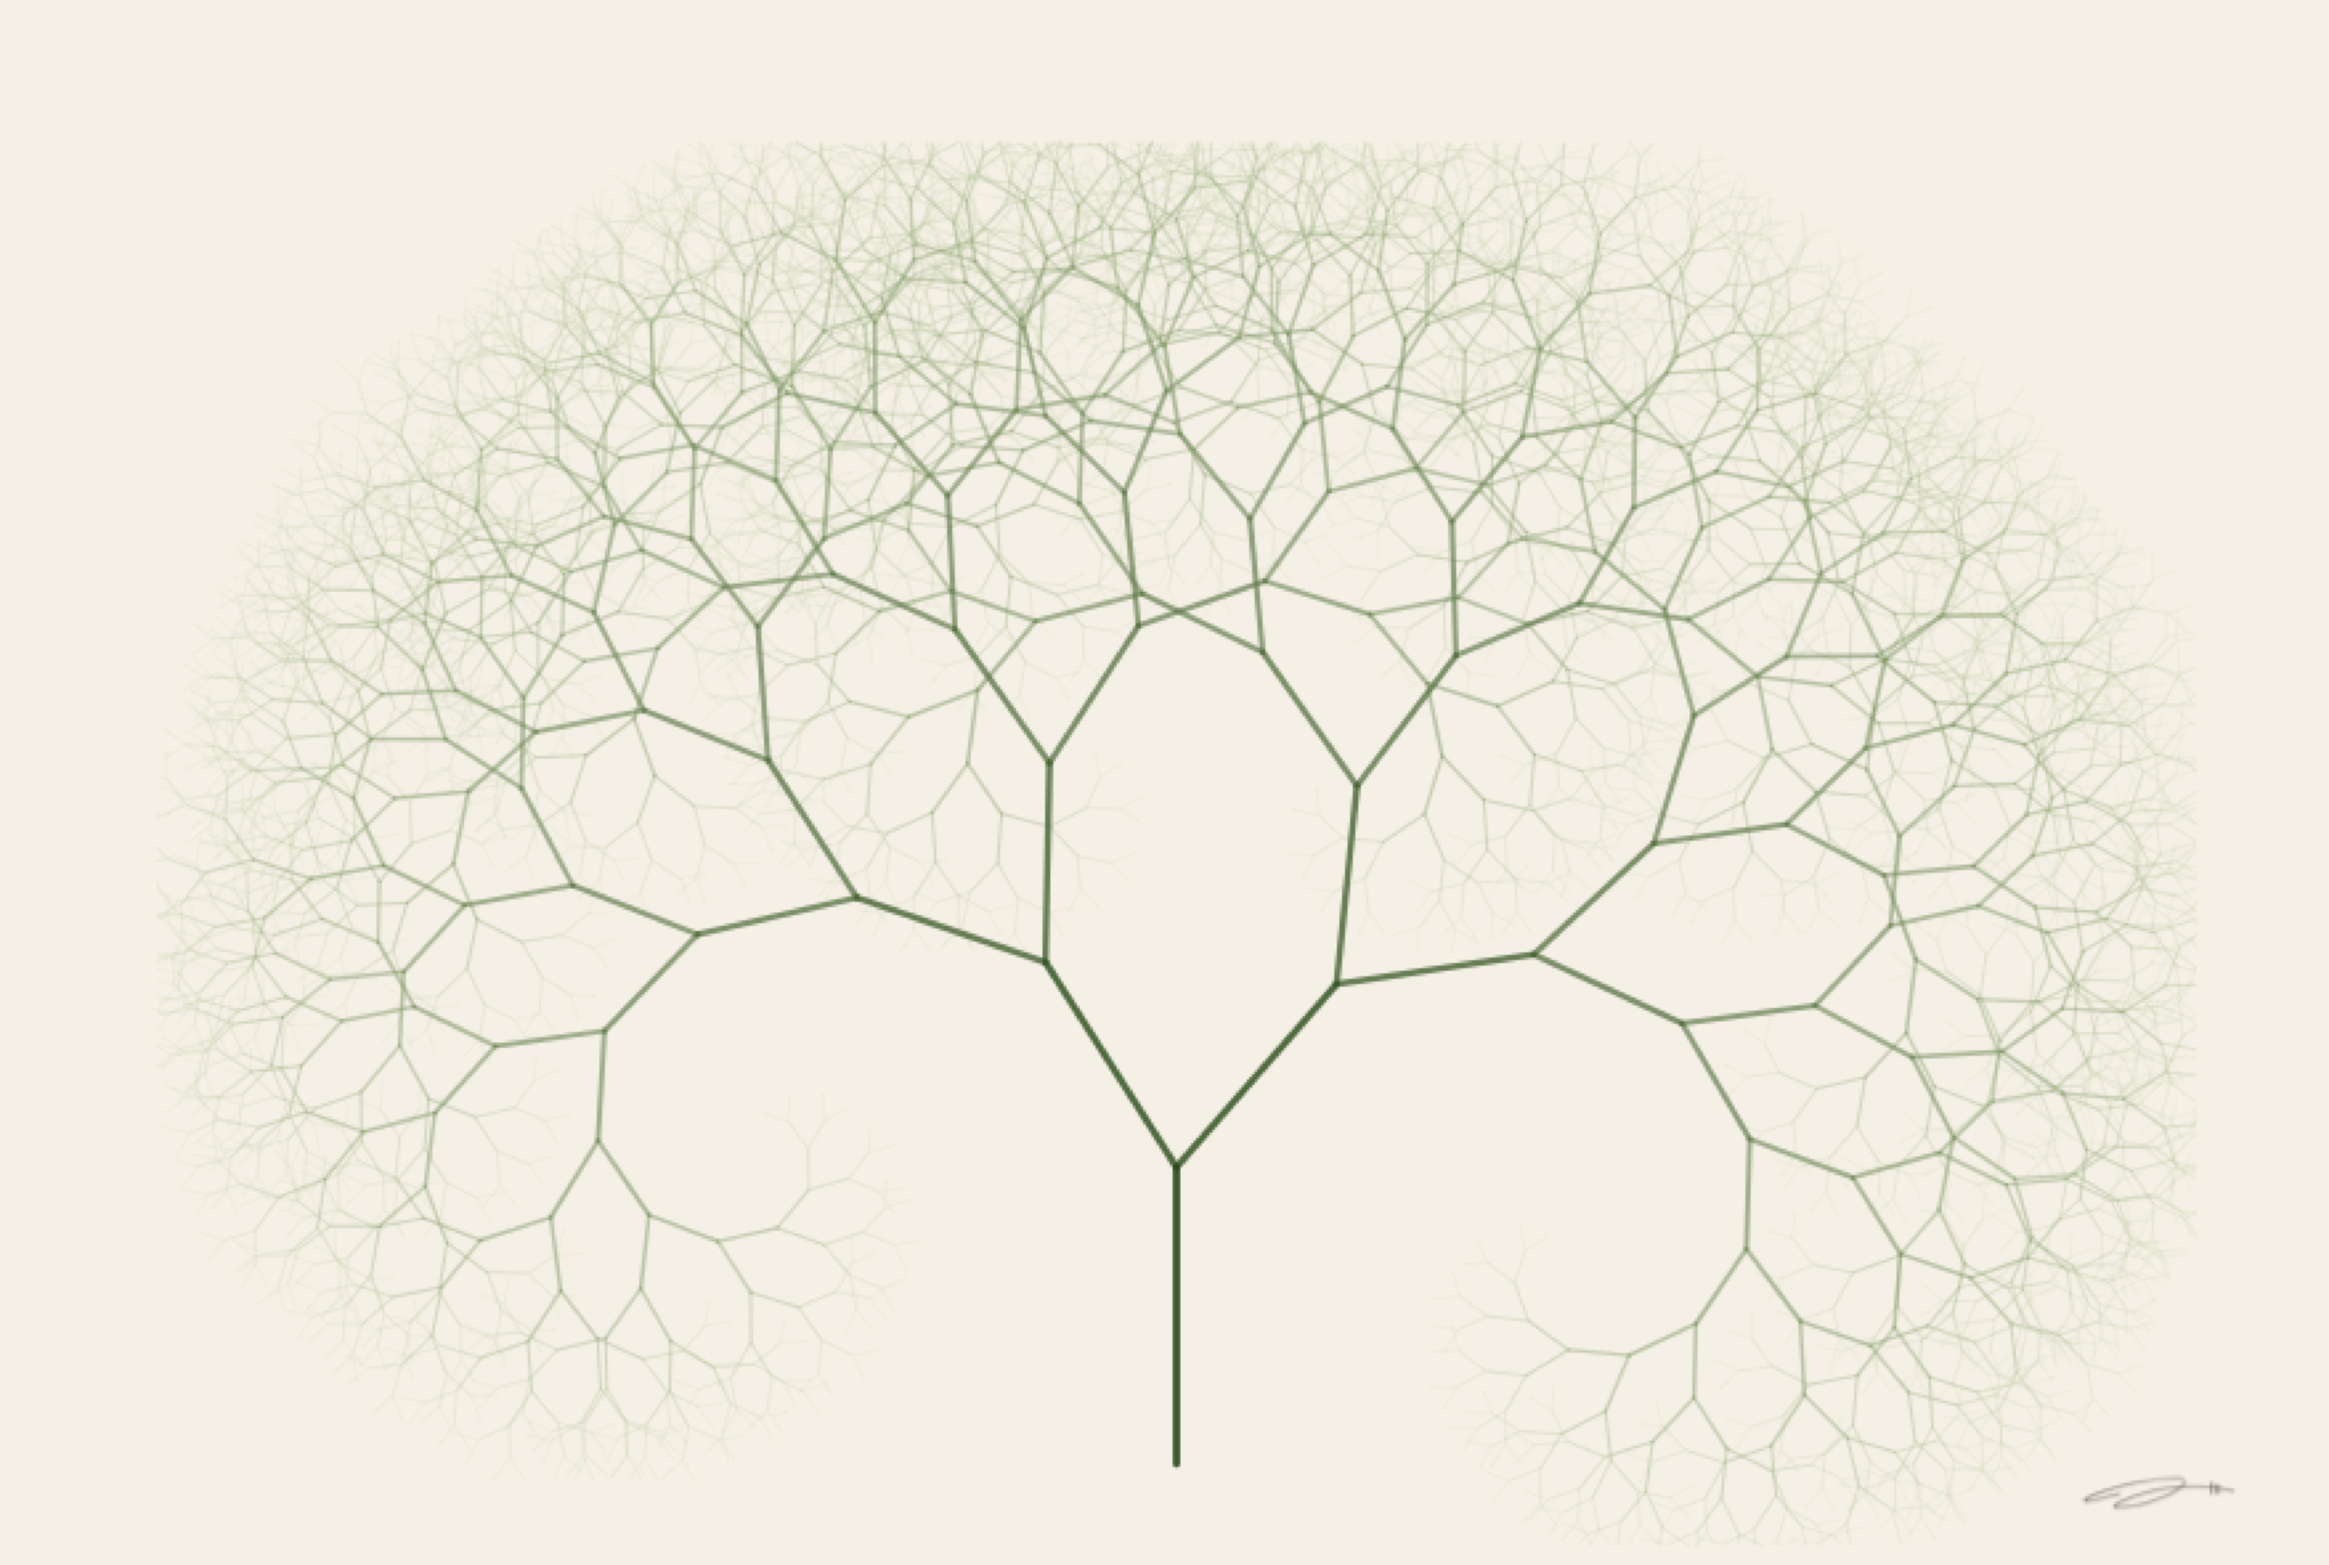
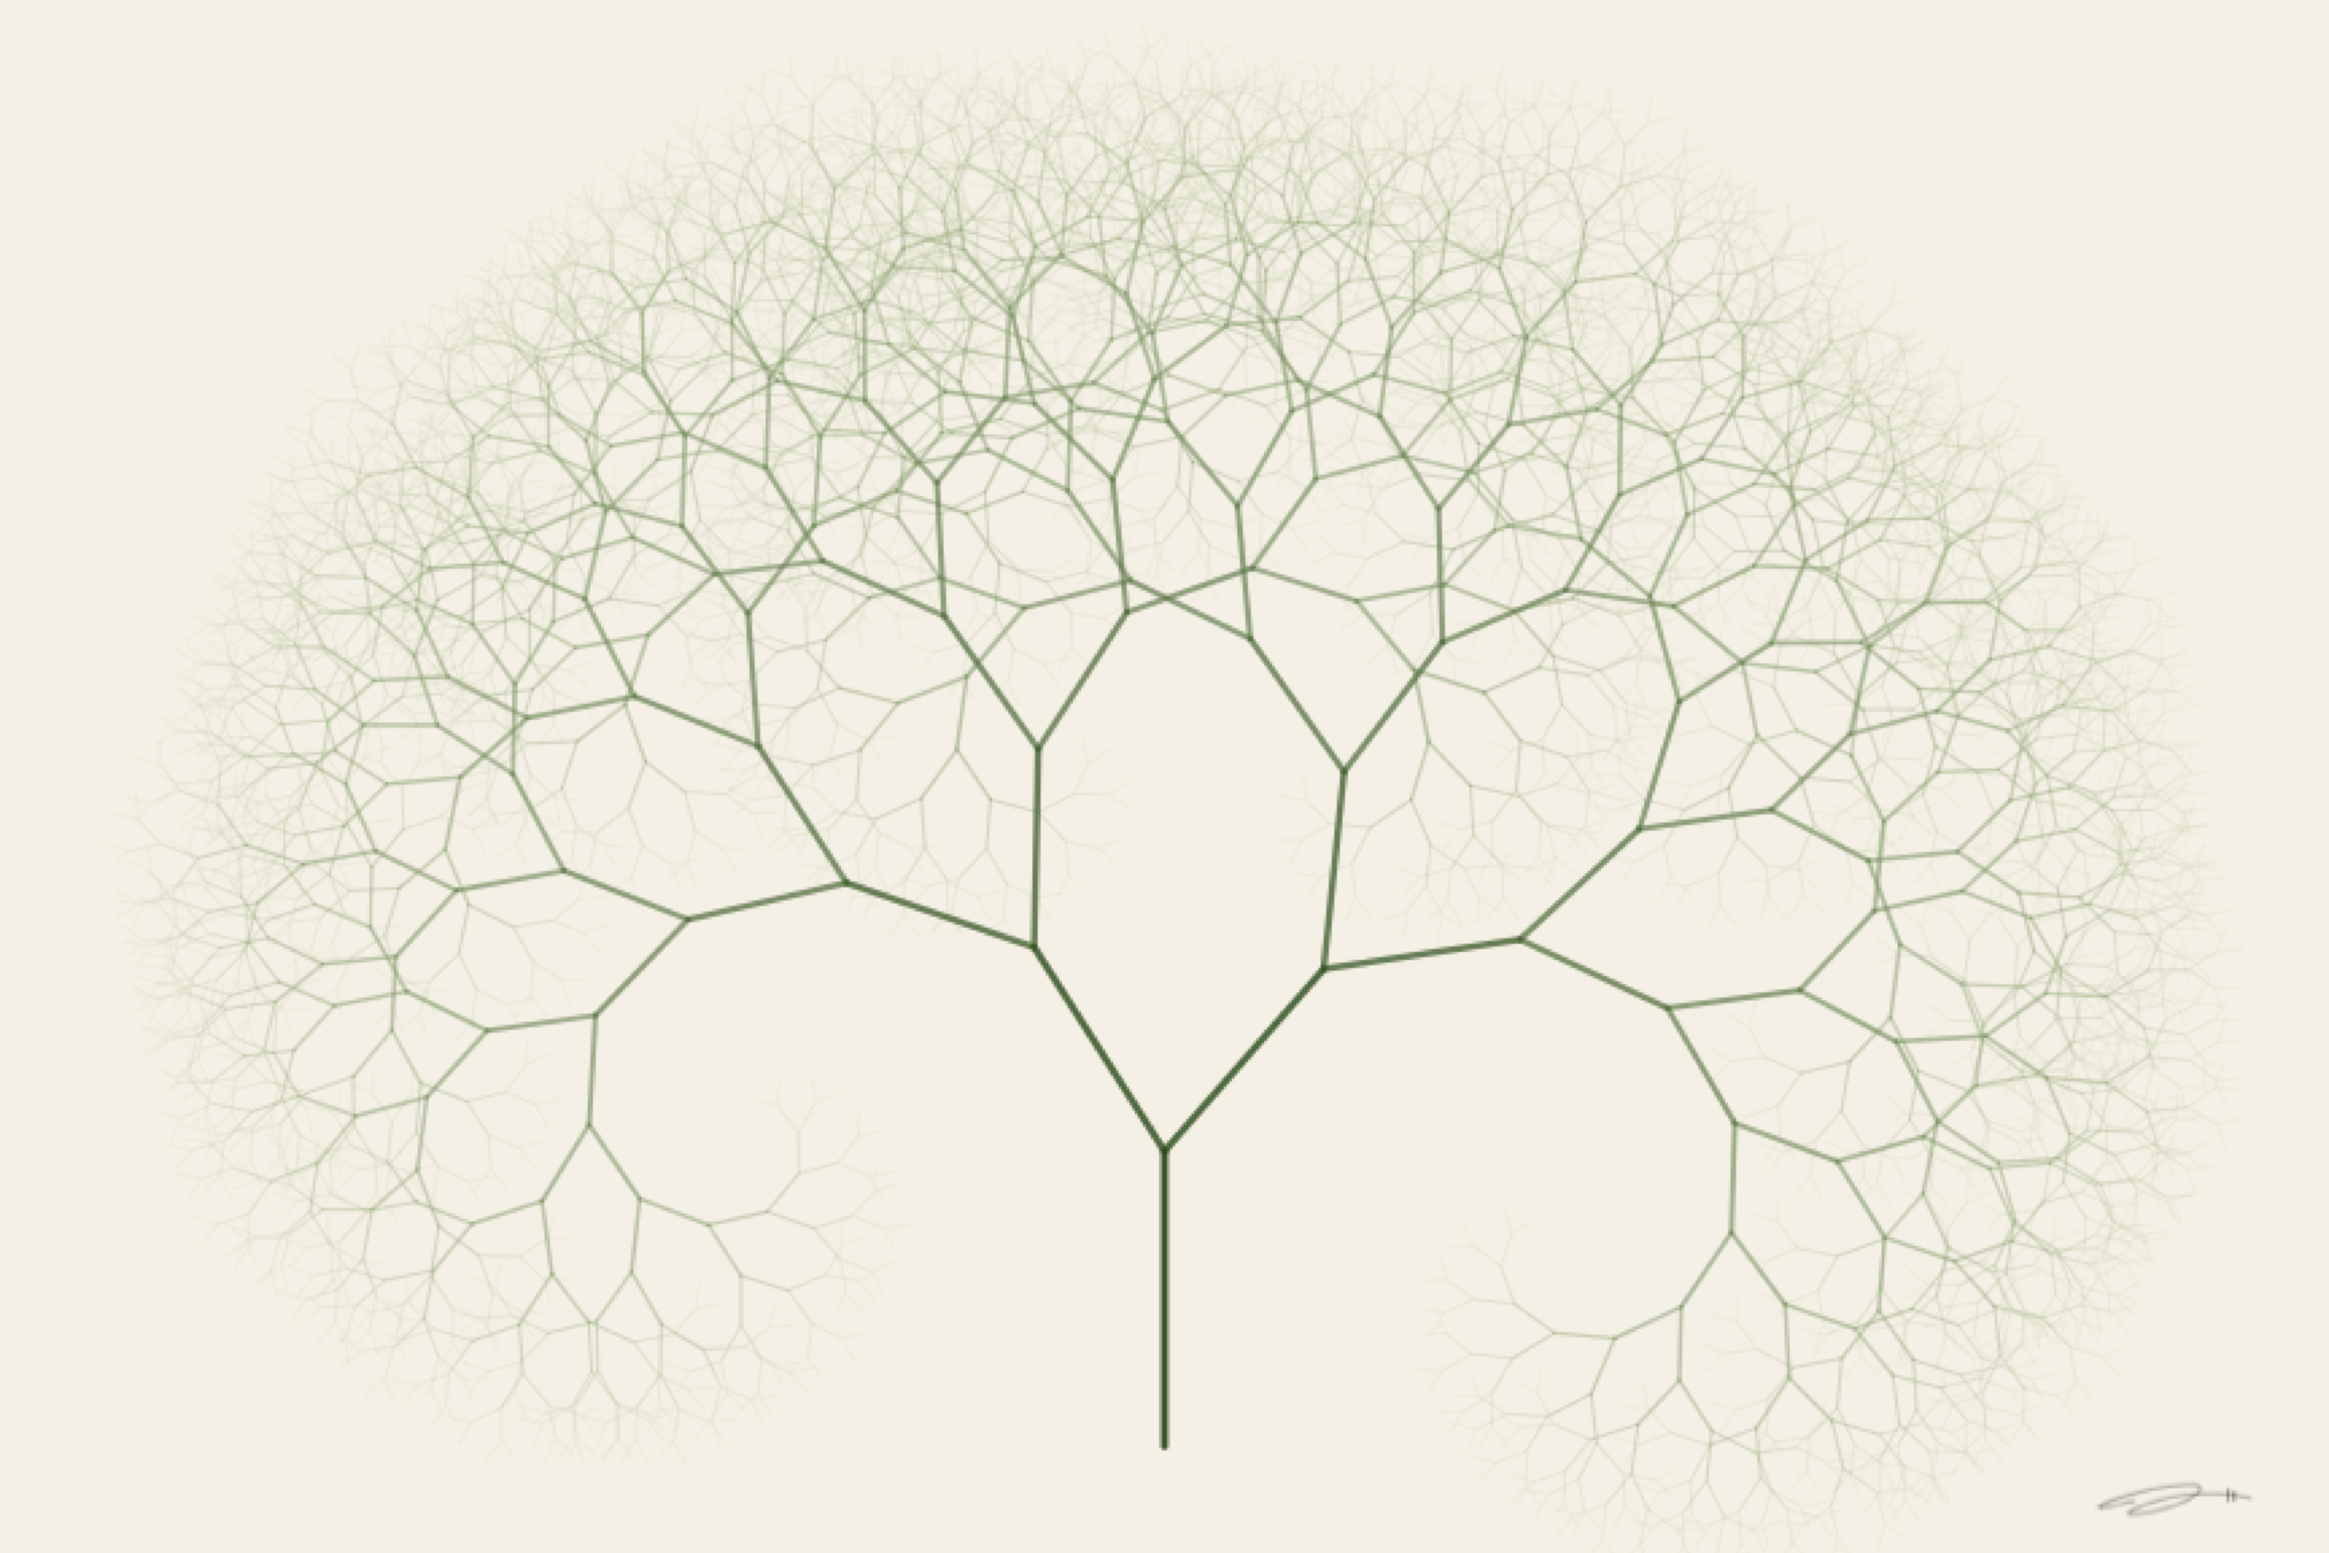
Fix print fulfillment pipeline and update artwork
- Fix blob lookup: convert hyphenated piece IDs to underscored blob keys
- Use exact .pdf prefix to prevent false matches
- Switch blob storage from private to public for Prodigi access
- Replace solitude_beacon with curated water droplet version
- Remove margins from growth_branch (full-bleed)
- Update email sender to hello@geometryoffeeling.com
- Add blob coverage verification script

Changed region(s): [[0.0933, 0.0625, 0.9333, 0.9375], [0.9022, 0.9375, 0.9644, 1.0]]

diff --git a/scripts/verify-blob-coverage.ts b/scripts/verify-blob-coverage.ts
@@ -1,0 +1,227 @@
+/**
+ * Verify that every piece on the site has:
+ * 1. A matching PDF in Vercel Blob storage
+ * 2. A matching JPG in public/prints/
+ *
+ * Also generates an HTML review page for visual comparison.
+ *
+ * Usage:
+ *   BLOB_READ_WRITE_TOKEN=vercel_blob_rw_... npx tsx scripts/verify-blob-coverage.ts
+ */
+
+import { list } from "@vercel/blob";
+import { existsSync, writeFileSync } from "fs";
+import { join } from "path";
+
+// Extract piece data from series.ts at runtime
+async function getAllPieces() {
+  const { series } = await import("../src/data/series");
+  return series.flatMap((s) =>
+    s.pieces.map((p) => ({
+      id: p.id,
+      title: p.title,
+      series: s.id,
+      seriesName: s.name,
+      imageUrl: p.imageUrl,
+      blobKey: p.id.replace(/-/g, "_"),
+    }))
+  );
+}
+
+async function main() {
+  if (!process.env.BLOB_READ_WRITE_TOKEN) {
+    console.error("Set BLOB_READ_WRITE_TOKEN before running this script.");
+    process.exit(1);
+  }
+
+  const pieces = await getAllPieces();
+  console.log(`Found ${pieces.length} pieces in series.ts\n`);
+
+  // Fetch all blobs from store
+  const allBlobs = new Map<string, string>();
+  let cursor: string | undefined;
+  do {
+    const result = await list({ prefix: "prints/", limit: 500, cursor });
+    for (const blob of result.blobs) {
+      allBlobs.set(blob.pathname, blob.url);
+    }
+    cursor = result.hasMore ? result.cursor : undefined;
+  } while (cursor);
+
+  console.log(`Found ${allBlobs.size} files in blob store\n`);
+
+  const missing: { piece: string; issue: string }[] = [];
+  const matched: {
+    id: string;
+    title: string;
+    series: string;
+    seriesName: string;
+    jpgPath: string;
+    jpgExists: boolean;
+    blobUrl: string | null;
+    imageUrl: string;
+  }[] = [];
+
+  for (const piece of pieces) {
+    const blobPath = `prints/${piece.blobKey}.pdf`;
+    const blobUrl = allBlobs.get(blobPath) || null;
+    const jpgPath = join(process.cwd(), "public", piece.imageUrl);
+    const jpgExists = existsSync(jpgPath);
+
+    if (!blobUrl) {
+      missing.push({ piece: piece.id, issue: `No blob PDF (expected ${blobPath})` });
+    }
+    if (!jpgExists) {
+      missing.push({ piece: piece.id, issue: `No JPG at ${piece.imageUrl}` });
+    }
+
+    matched.push({
+      id: piece.id,
+      title: piece.title,
+      series: piece.series,
+      seriesName: piece.seriesName,
+      jpgPath: piece.imageUrl,
+      jpgExists,
+      blobUrl,
+      imageUrl: piece.imageUrl,
+    });
+  }
+
+  // Report
+  if (missing.length === 0) {
+    console.log("ALL PIECES HAVE MATCHING BLOB PDF AND JPG\n");
+  } else {
+    console.log(`MISSING FILES (${missing.length}):`);
+    for (const m of missing) {
+      console.log(`  ${m.piece}: ${m.issue}`);
+    }
+    console.log();
+  }
+
+  // Summary by series
+  const bySeries = new Map<string, { total: number; withBlob: number; withJpg: number }>();
+  for (const m of matched) {
+    const s = bySeries.get(m.seriesName) || { total: 0, withBlob: 0, withJpg: 0 };
+    s.total++;
+    if (m.blobUrl) s.withBlob++;
+    if (m.jpgExists) s.withJpg++;
+    bySeries.set(m.seriesName, s);
+  }
+
+  console.log("Series coverage:");
+  for (const [name, s] of bySeries) {
+    const blobOk = s.withBlob === s.total ? "OK" : `${s.withBlob}/${s.total}`;
+    const jpgOk = s.withJpg === s.total ? "OK" : `${s.withJpg}/${s.total}`;
+    console.log(`  ${name.padEnd(20)} Blob: ${blobOk.padEnd(6)} JPG: ${jpgOk}`);
+  }
+
+  // Generate HTML review page
+  const html = generateReviewPage(matched);
+  const outPath = join(process.cwd(), "review_flagged", "blob_review.html");
+  writeFileSync(outPath, html);
+  console.log(`\nReview page: ${outPath}`);
+  console.log("Open in browser to visually compare JPGs (site) vs PDFs (blob)");
+}
+
+function generateReviewPage(
+  pieces: {
+    id: string;
+    title: string;
+    series: string;
+    seriesName: string;
+    jpgPath: string;
+    jpgExists: boolean;
+    blobUrl: string | null;
+    imageUrl: string;
+  }[]
+) {
+  const rows = pieces
+    .map(
+      (p) => `
+    <div class="piece ${!p.blobUrl ? "missing-blob" : ""} ${!p.jpgExists ? "missing-jpg" : ""}" data-series="${p.series}">
+      <div class="header">
+        <span class="series-tag">${p.seriesName}</span>
+        <span class="title">${p.title}</span>
+        <span class="id">${p.id}</span>
+        ${!p.blobUrl ? '<span class="badge bad">NO BLOB</span>' : '<span class="badge good">BLOB OK</span>'}
+        ${!p.jpgExists ? '<span class="badge bad">NO JPG</span>' : ""}
+      </div>
+      <div class="images">
+        <div class="img-col">
+          <div class="label">Website JPG</div>
+          ${p.jpgExists ? `<img src="../public${p.imageUrl}" loading="lazy" />` : '<div class="placeholder">MISSING</div>'}
+        </div>
+        <div class="img-col">
+          <div class="label">Blob PDF <a href="${p.blobUrl || "#"}" target="_blank" style="color:#8af;font-size:11px;">(open in new tab)</a></div>
+          ${p.blobUrl ? `<embed src="${p.blobUrl}" type="application/pdf" class="pdf-embed" />` : '<div class="placeholder">MISSING</div>'}
+        </div>
+      </div>
+    </div>`
+    )
+    .join("\n");
+
+  return `<!DOCTYPE html>
+<html>
+<head>
+<meta charset="utf-8">
+<title>Blob Coverage Review</title>
+<style>
+  * { box-sizing: border-box; margin: 0; padding: 0; }
+  body { font-family: -apple-system, system-ui, sans-serif; background: #111; color: #eee; padding: 20px; }
+  h1 { margin-bottom: 10px; }
+  .stats { margin-bottom: 20px; color: #aaa; }
+  .filters { margin-bottom: 20px; display: flex; gap: 8px; flex-wrap: wrap; }
+  .filters button { padding: 6px 14px; border: 1px solid #444; background: #222; color: #ccc; border-radius: 4px; cursor: pointer; font-size: 13px; }
+  .filters button.active { background: #446; border-color: #668; color: #fff; }
+  .filter-issues { padding: 6px 14px; border: 1px solid #844; background: #422; color: #faa; border-radius: 4px; cursor: pointer; font-size: 13px; }
+  .filter-issues.active { background: #644; border-color: #a66; }
+  .piece { border: 1px solid #333; border-radius: 8px; margin-bottom: 16px; padding: 16px; background: #1a1a1a; }
+  .piece.missing-blob { border-color: #a33; }
+  .header { display: flex; align-items: center; gap: 12px; margin-bottom: 12px; flex-wrap: wrap; }
+  .series-tag { background: #335; padding: 3px 10px; border-radius: 4px; font-size: 12px; text-transform: uppercase; }
+  .title { font-size: 18px; font-weight: 600; }
+  .id { color: #888; font-size: 13px; font-family: monospace; }
+  .badge { padding: 2px 8px; border-radius: 3px; font-size: 11px; font-weight: 600; }
+  .badge.good { background: #243; color: #6d6; }
+  .badge.bad { background: #432; color: #f66; }
+  .images { display: flex; gap: 20px; }
+  .img-col { flex: 1; }
+  .img-col .label { font-size: 12px; color: #888; margin-bottom: 6px; text-transform: uppercase; }
+  .img-col img { width: 100%; border-radius: 4px; }
+  .pdf-embed { width: 100%; height: 400px; border-radius: 4px; border: 1px solid #333; }
+  .placeholder { padding: 40px; text-align: center; background: #322; border-radius: 4px; color: #f66; }
+  .hidden { display: none; }
+</style>
+</head>
+<body>
+<h1>Blob Coverage Review</h1>
+<div class="stats">${pieces.length} pieces | ${pieces.filter((p) => p.blobUrl).length} with blob | ${pieces.filter((p) => !p.blobUrl).length} missing blob</div>
+<div class="filters">
+  <button class="active" onclick="filterSeries('all')">All</button>
+  <button class="filter-issues" onclick="filterIssues()">Issues Only</button>
+  ${[...new Set(pieces.map((p) => p.series))].map((s) => `<button onclick="filterSeries('${s}')">${s}</button>`).join("\n  ")}
+</div>
+${rows}
+<script>
+function filterSeries(s) {
+  document.querySelectorAll('.piece').forEach(el => {
+    el.classList.toggle('hidden', s !== 'all' && el.dataset.series !== s);
+  });
+  document.querySelectorAll('.filters button').forEach(b => b.classList.remove('active'));
+  if (s === 'all') document.querySelector('.filters button').classList.add('active');
+  else document.querySelectorAll('.filters button').forEach(b => { if (b.textContent === s) b.classList.add('active'); });
+}
+function filterIssues() {
+  const btn = document.querySelector('.filter-issues');
+  const active = btn.classList.toggle('active');
+  document.querySelectorAll('.piece').forEach(el => {
+    if (active) el.classList.toggle('hidden', !el.classList.contains('missing-blob') && !el.classList.contains('missing-jpg'));
+    else el.classList.remove('hidden');
+  });
+}
+</script>
+</body>
+</html>`;
+}
+
+main().catch(console.error);

diff --git a/src/app/api/webhooks/stripe/route.ts b/src/app/api/webhooks/stripe/route.ts
@@ -8,9 +8,12 @@ import type Stripe from "stripe";
 const webhookSecret = process.env.STRIPE_WEBHOOK_SECRET!;
 
 async function getHighResUrl(pieceId: string): Promise<string | null> {
+  // Piece IDs use hyphens (e.g. "solitude-beacon") but blob files use
+  // underscores (e.g. "prints/solitude_beacon.pdf"). Convert before lookup.
+  const blobKey = pieceId.replace(/-/g, "_");
   try {
-    const { blobs } = await list({ prefix: `prints/${pieceId}`, limit: 1 });
-    if (blobs.length > 0) return blobs[0].downloadUrl;
+    const { blobs } = await list({ prefix: `prints/${blobKey}.pdf`, limit: 1 });
+    if (blobs.length > 0) return blobs[0].url;
   } catch (err) {
     console.error("Failed to find blob for piece:", pieceId, err);
   }

diff --git a/scripts/upload-to-blob.ts b/scripts/upload-to-blob.ts
@@ -45,7 +45,7 @@ async function main() {
 
       const content = readFileSync(filePath);
       const blob = await put(blobPath, content, {
-        access: "private",
+        access: "public",
         addRandomSuffix: false,
         allowOverwrite: true,
       });
@@ -83,7 +83,7 @@ async function main() {
 
       const content = readFileSync(filePath);
       const blob = await put(blobPath, content, {
-        access: "private",
+        access: "public",
         addRandomSuffix: false,
         allowOverwrite: true,
       });

diff --git a/src/lib/email.ts b/src/lib/email.ts
@@ -2,9 +2,7 @@ import { Resend } from "resend";
 
 const resend = new Resend(process.env.RESEND_API_KEY);
 
-// Until you verify your domain in Resend, use their test sender.
-// After verification, change to: "Geometry of Feeling <hello@geometryoffeeling.com>"
-const FROM = "Geometry of Feeling <onboarding@resend.dev>";
+const FROM = "Geometry of Feeling <hello@geometryoffeeling.com>";
 
 interface OrderEmailParams {
   to: string;

diff --git a/mathematical_affect/pieces/growth/growth_branch.py b/mathematical_affect/pieces/growth/growth_branch.py
@@ -23,13 +23,10 @@ FIG_W = 12
 FIG_H = 8
 BG_COLOR = '#F5F0E6'
 
-# Layout constants (matching series standard)
-PAD_L = 0.72; PAD_R = 0.60; PAD_T = 0.65; PAD_B = 0.88
-PW = FIG_W - PAD_L - PAD_R
-PH = FIG_H - PAD_T - PAD_B
-cx = PAD_L + PW / 2
-XL = PAD_L; XR = PAD_L + PW
-YB_CLIP = 0.0; YT_CLIP = PAD_B + PH
+# Full-bleed — no margins
+cx = FIG_W / 2
+XL = 0.0; XR = FIG_W
+YB_CLIP = 0.0; YT_CLIP = FIG_H
 
 # Palette
 DARK_G = '#2A4A1A'
@@ -116,7 +113,7 @@ def render():
 
     # Collect L-system segments: 13 levels, θ=35°, scale=0.82
     segs = []
-    collect(cx, PAD_B - 0.45, 0, PH * 0.24, 13, 35, 0.82, 0, segs)
+    collect(cx, 0.55, 0, FIG_H * 0.19, 13, 35, 0.82, 0, segs)
     draw_branches(ax, segs, 13, DARK_G, PALE_G)
 
     add_signature(fig, ax, BG_COLOR)
@@ -124,7 +121,7 @@ def render():
 
     os.makedirs(OUTPUT_DIR, exist_ok=True)
     pdf_path = os.path.join(OUTPUT_DIR, "growth_branch.pdf")
-    fig.savefig(pdf_path, format='pdf', bbox_inches='tight', facecolor=BG_COLOR)
+    fig.savefig(pdf_path, format='pdf', facecolor=BG_COLOR)
     plt.close(fig)
     print(f"saved {pdf_path}")
     return pdf_path
